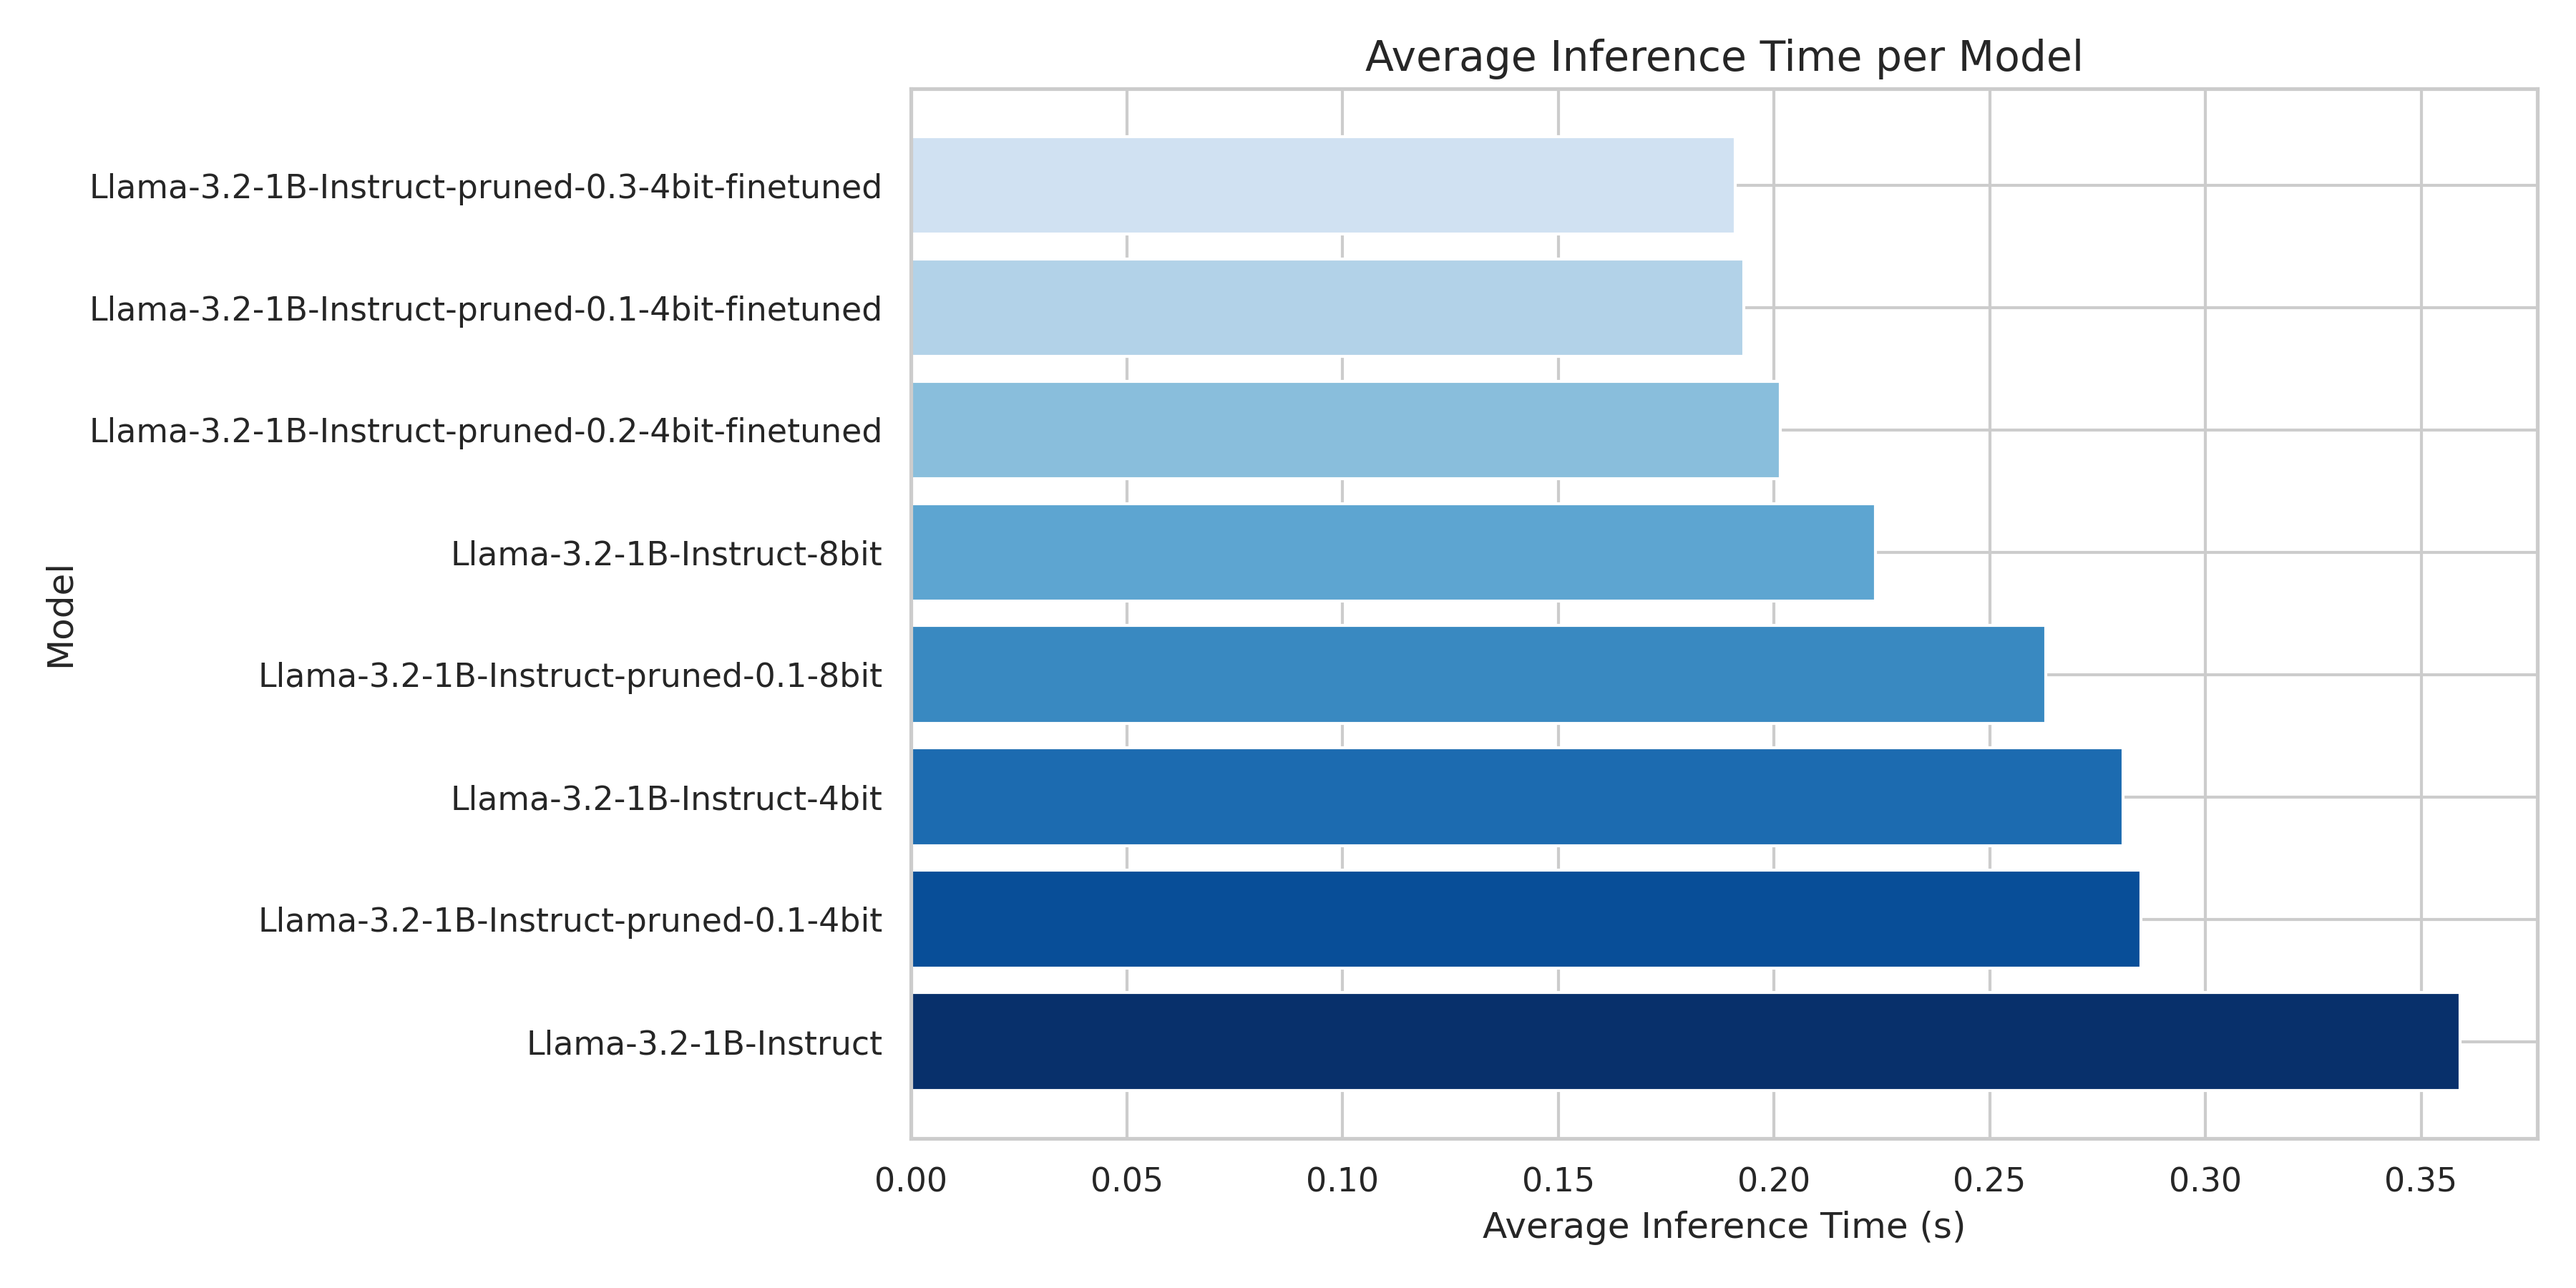
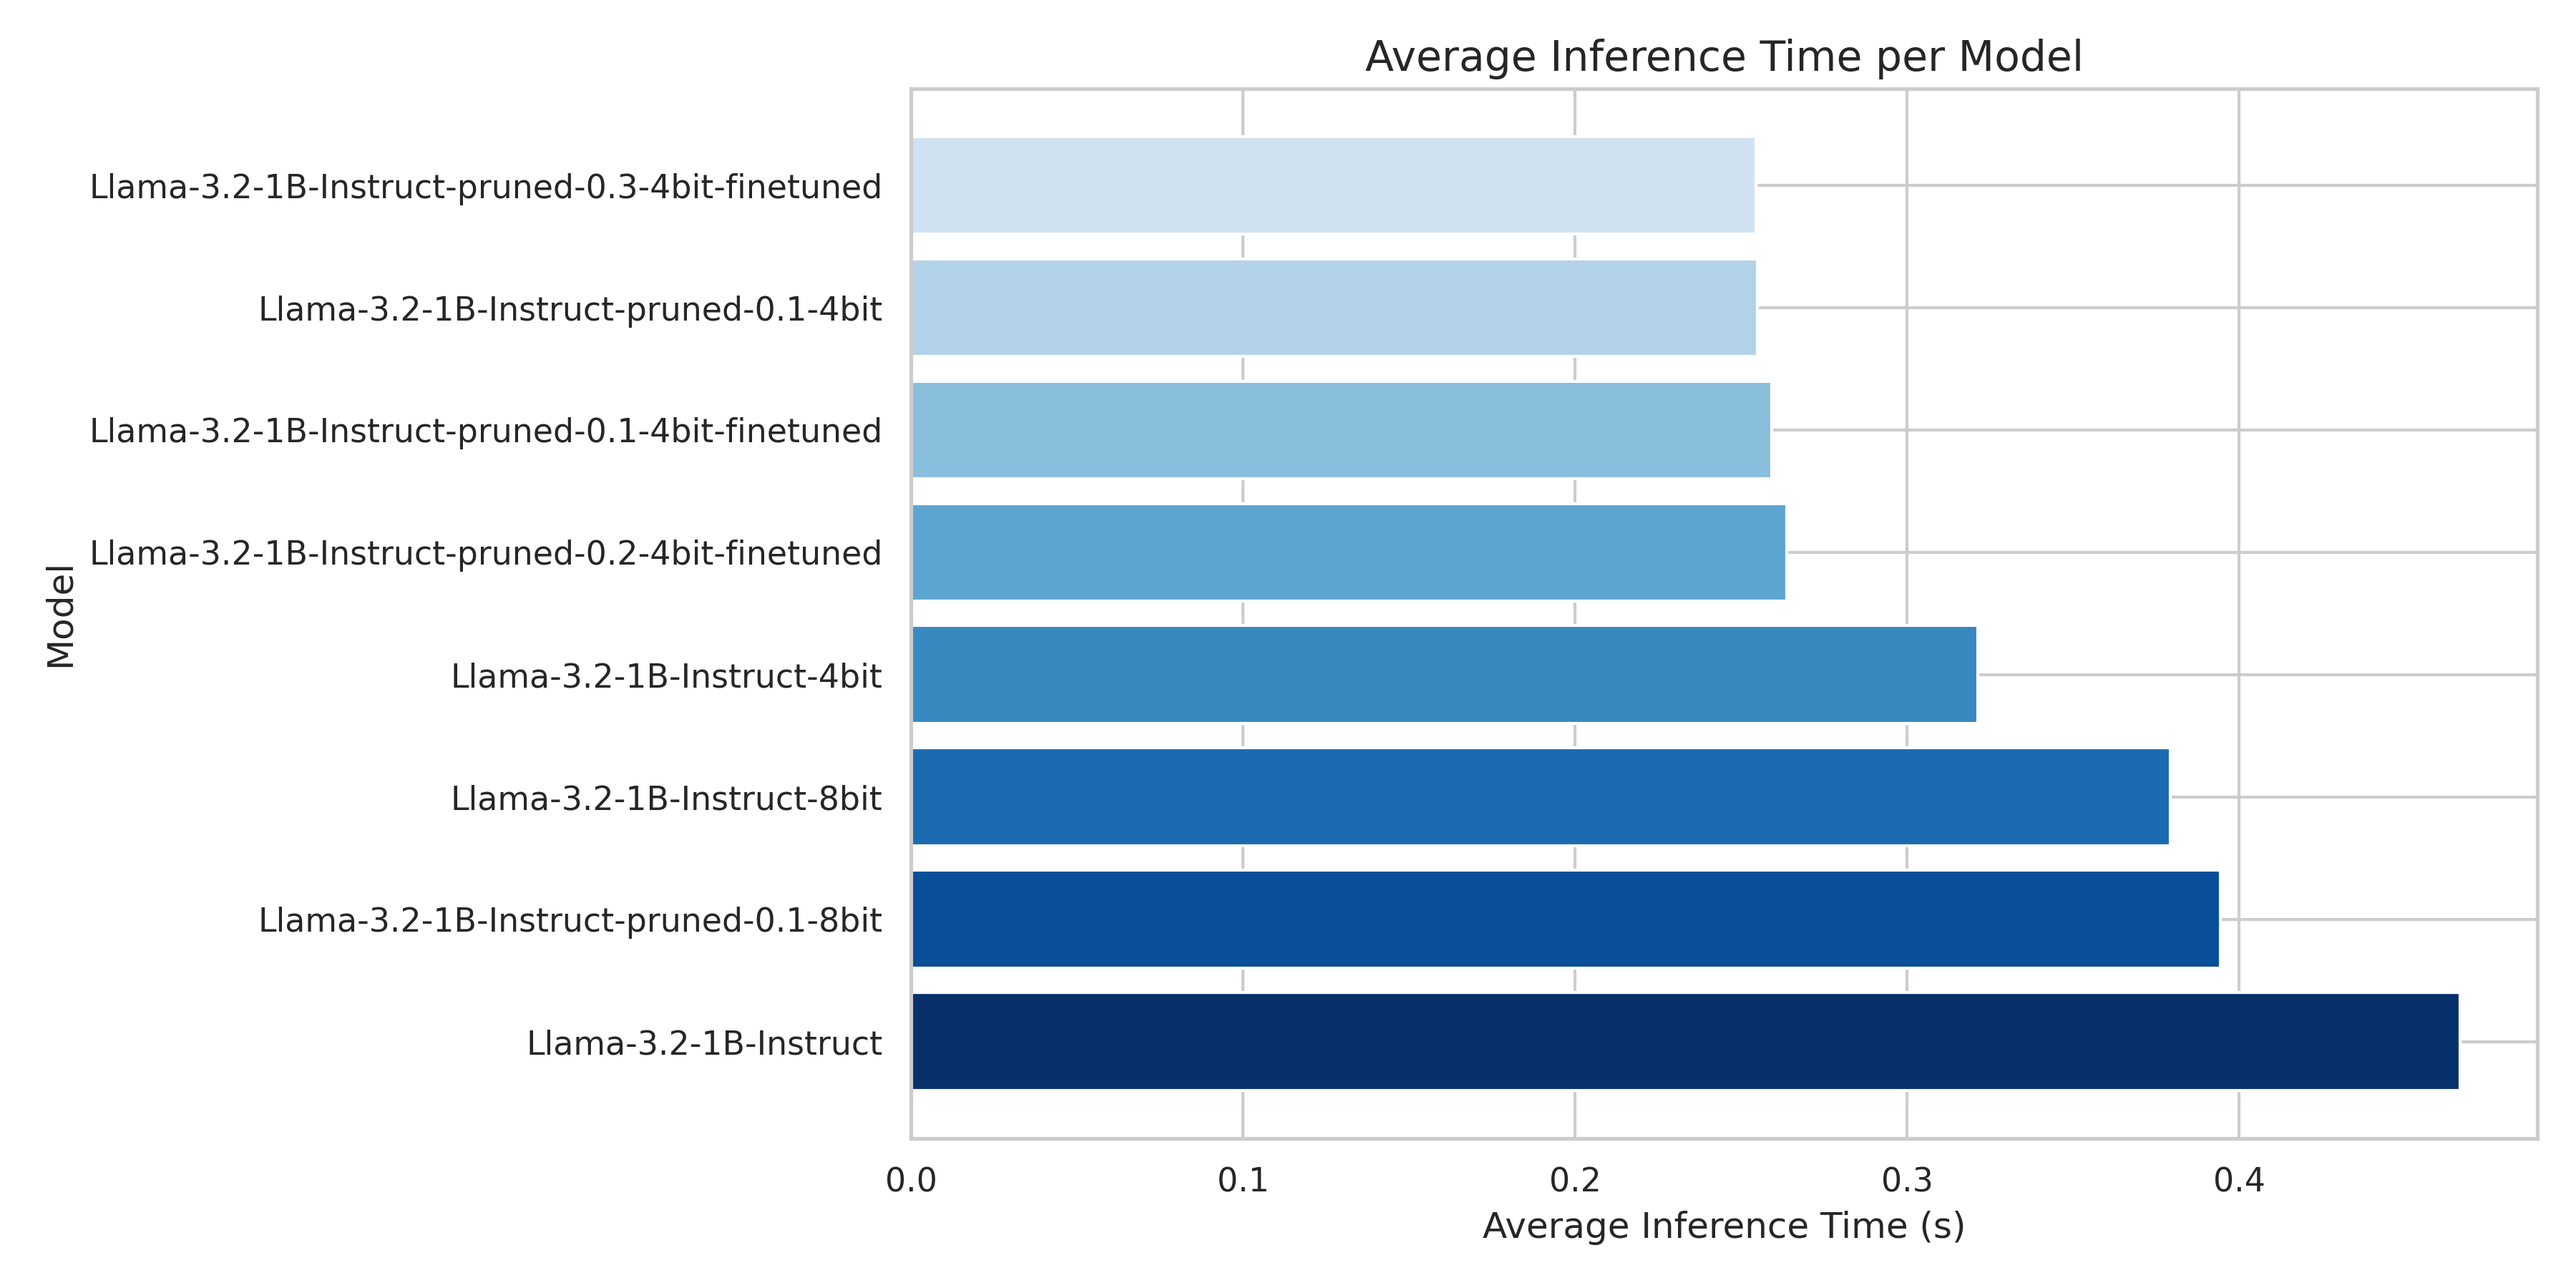
Updates

diff --git a/src/11_generate_mean_inference_time.py b/src/11_generate_mean_inference_time.py
@@ -18,7 +18,9 @@ def main():
     
     df = pd.read_csv(input_path)
     
-    inference_columns = [col for col in df.columns if 'Observed inference' in col]
+    inference_columns = [
+        "MedQA", "MedMCQA", "PubMedQA", "MMLU"
+    ]
     
     df['Average Inference Time'] = df[inference_columns].mean(axis=1)
     

diff --git a/src/12_generate_mean_inference_time_full.py b/src/12_generate_mean_inference_time_full.py
@@ -18,7 +18,9 @@ def main():
     
     df = pd.read_csv(input_path)
     
-    inference_columns = [col for col in df.columns if 'Observed inference' in col]
+    inference_columns = [
+        "MedQA", "MedMCQA", "PubMedQA", "MMLU"
+    ]
     
     df['Average Inference Time'] = df[inference_columns].mean(axis=1)
     
